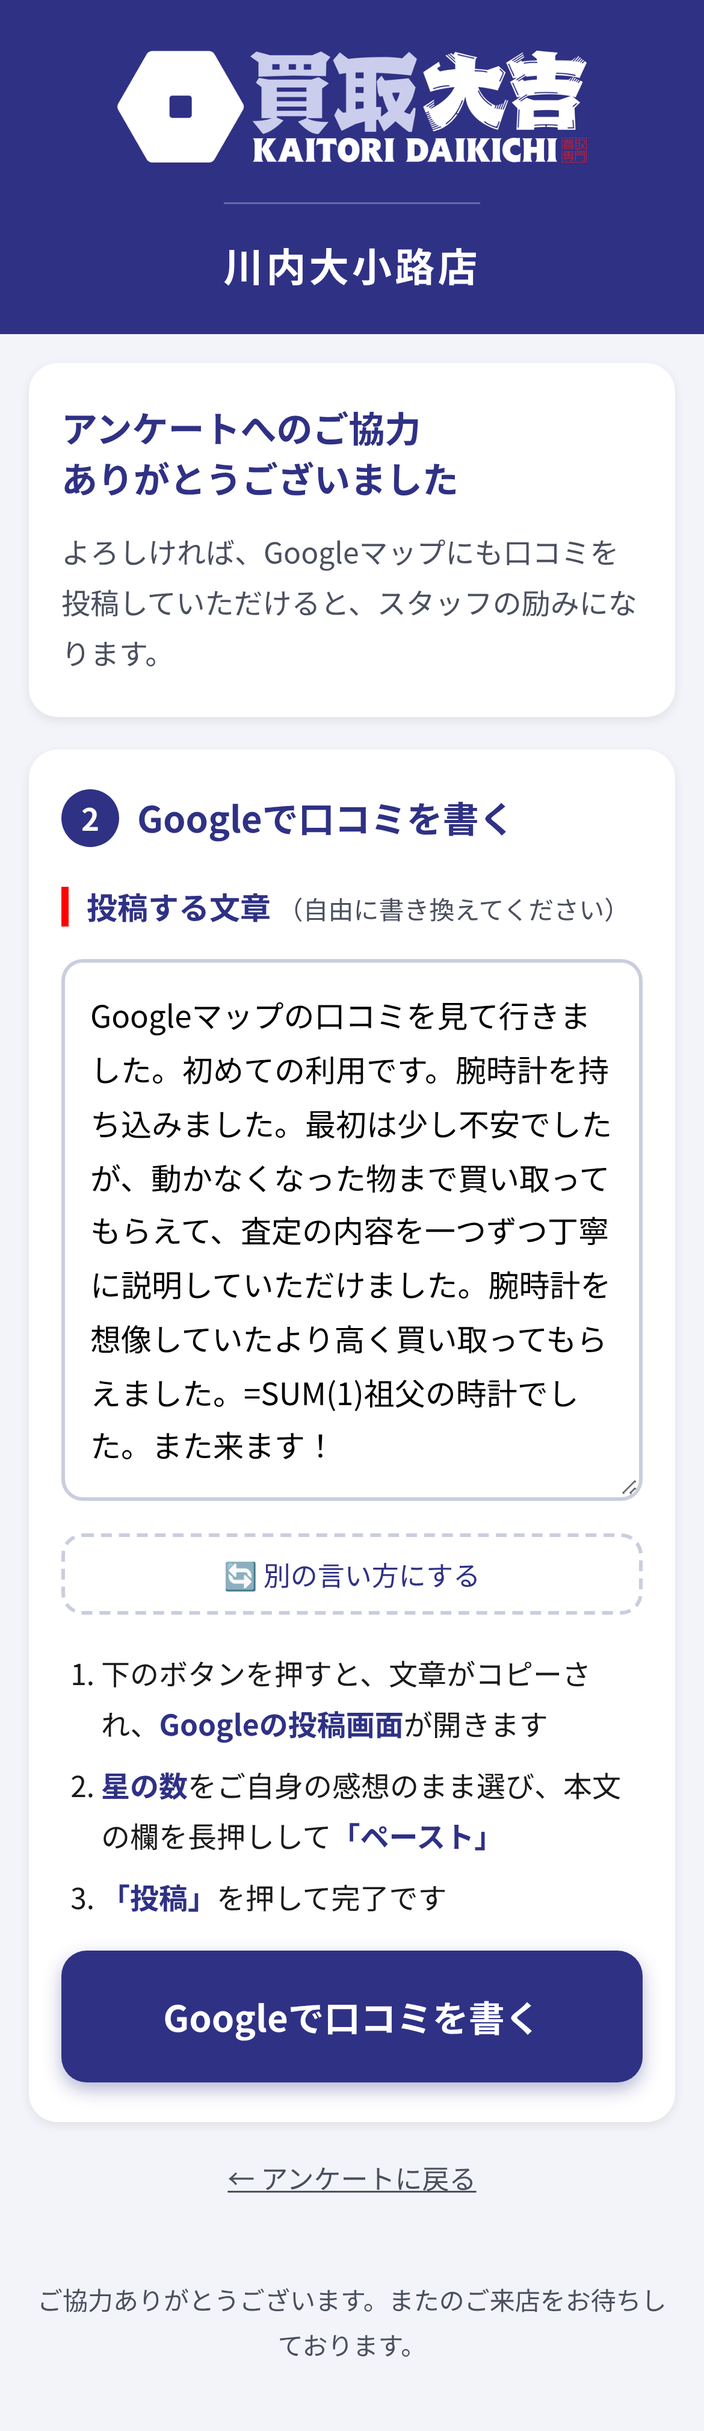
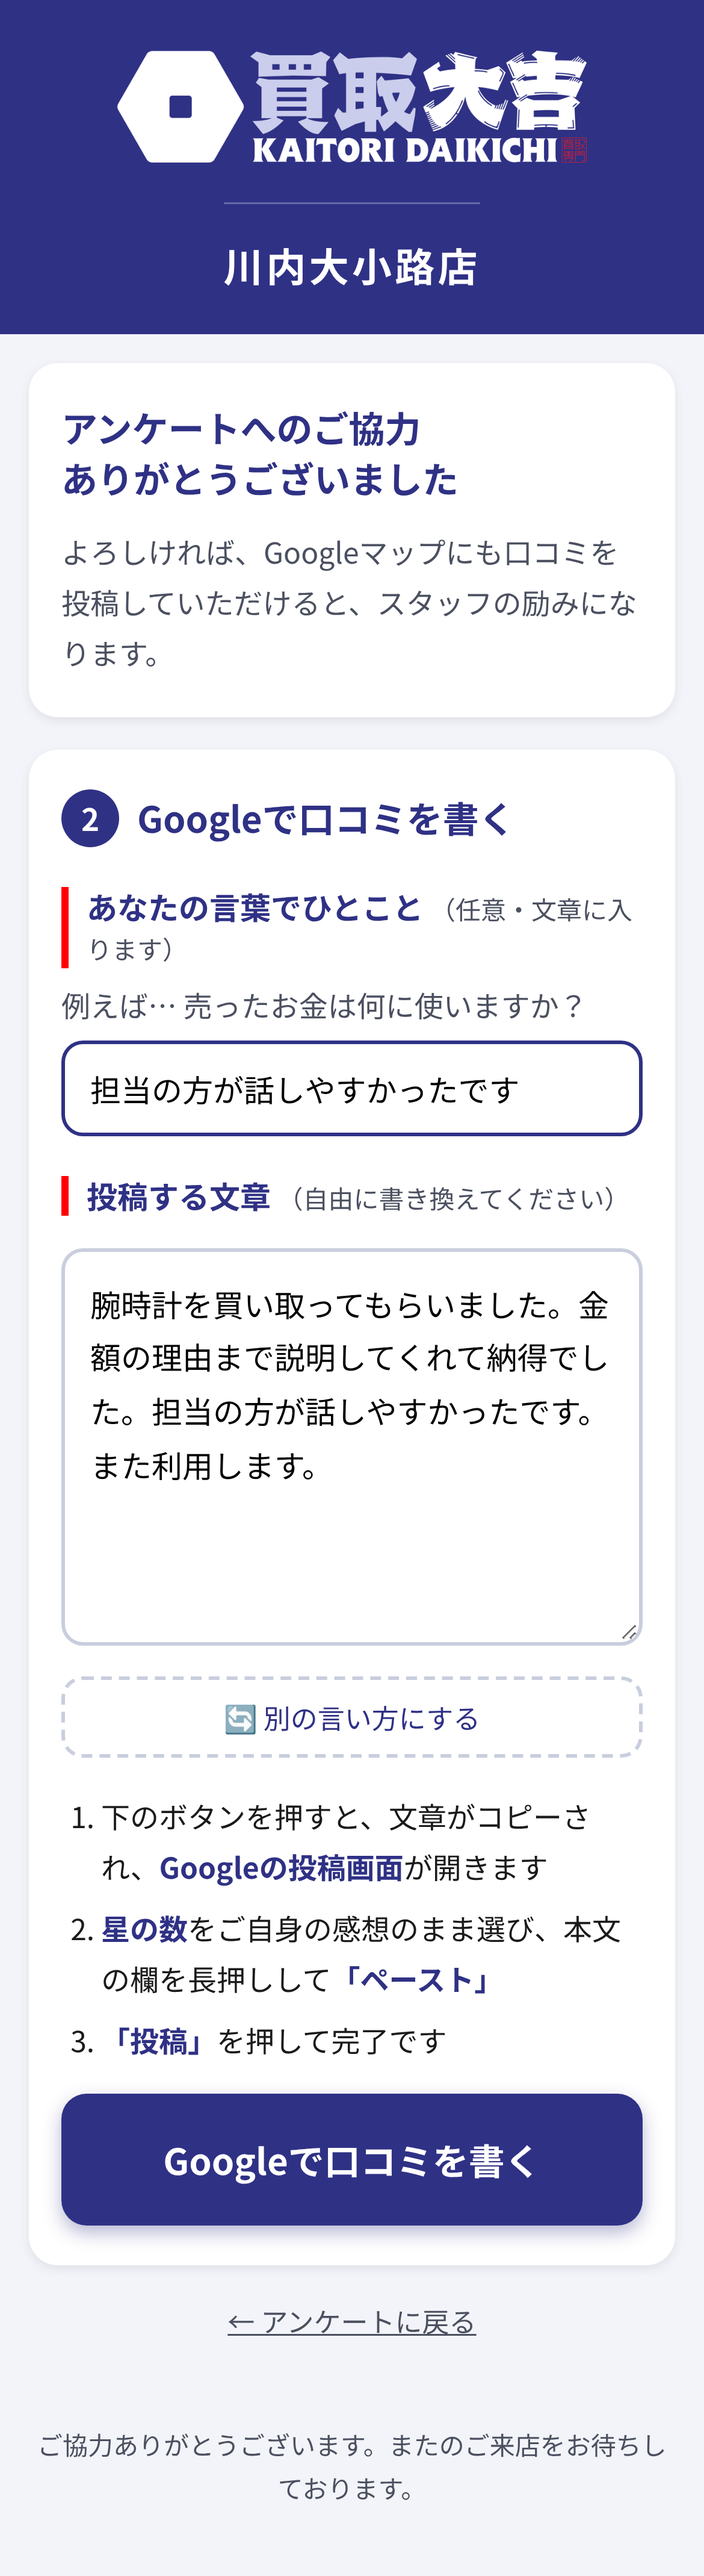
自由記載の一文を口コミ画面にも追加、ボタン押下の記録を強化、ファビコン追加
- 「あなたの言葉でひとこと」をかんたん／くわしく両方のモードで使えるように
- 口コミ画面（画面2）にも同じ欄を置き、画面1と内容を連動
- 送信を sendBeacon に変更し、Googleへ移動する直前でも記録が届きやすく
- シートに「Google口コミボタン（押した／押していない）」「ボタンを押した日時」列を追加
- 見出し行は列が増えても自動で更新
- ファビコン・ホーム画面アイコンに買取大吉ロゴマーク（青ベース）を追加

Claude-Session: https://claude.ai/code/session_019pqPey41PXqapbJbBahgUt

diff --git a/index.html b/index.html
@@ -7,6 +7,11 @@
 <link rel="preconnect" href="https://fonts.gstatic.com" crossorigin>
 <link href="https://fonts.googleapis.com/css2?family=Noto+Sans+JP:wght@400;700&display=swap" rel="stylesheet">
 <title>口コミのお願い｜買取大吉 川内大小路店</title>
+<!-- ファビコン：買取大吉ロゴマーク単体（青ベース）。VIの余白規定（20%以上）をとって配置 -->
+<link rel="icon" href="favicon.ico" sizes="any">
+<link rel="icon" type="image/png" sizes="32x32" href="assets/favicon-32.png">
+<link rel="apple-touch-icon" href="assets/apple-touch-icon.png">
+<meta name="theme-color" content="#2f3185">
 <style>
   /* ===== 色の設定（ここを変えると全体の色が変わります） ===== */
   :root {
@@ -156,11 +161,9 @@
       <div class="label">印象に残ったこと <small>（いくつでも）</small></div>
       <div class="chips grid" data-group="point"></div>
 
-      <div class="detail-only">
-        <div class="label">あなたの言葉でひとこと <small>（任意）</small></div>
-        <p class="muted" style="margin:-4px 0 6px">例えば… <span id="ownQ"></span></p>
-        <input id="own" class="own" type="text" maxlength="200" placeholder="思ったことを、そのまま一言どうぞ">
-      </div>
+      <div class="label">あなたの言葉でひとこと <small>（任意）</small></div>
+      <p class="muted" style="margin:-4px 0 6px">例えば… <span class="ownQ"></span></p>
+      <input class="own" type="text" maxlength="200" placeholder="思ったことを、そのまま一言どうぞ">
 
       <p style="margin:24px 0 0"><button type="button" class="btn" id="toReview">アンケートに答える</button></p>
     </section>
@@ -176,6 +179,10 @@
 
     <section class="card">
       <h2><span class="num">2</span>Googleで口コミを書く</h2>
+      <div class="label">あなたの言葉でひとこと <small>（任意・文章に入ります）</small></div>
+      <p class="muted" style="margin:-4px 0 6px">例えば… <span class="ownQ"></span></p>
+      <input class="own" type="text" maxlength="200" placeholder="思ったことを、そのまま一言どうぞ">
+
       <div class="label">投稿する文章 <small>（自由に書き換えてください）</small></div>
       <textarea id="review" placeholder="ご自由にお書きください。文章なしで星だけの投稿もできます。"></textarea>
       <button type="button" id="reroll" class="reroll">🔄 別の言い方にする</button>
@@ -388,7 +395,8 @@ function reroll() {
   CONFIG.points.forEach(p => {
     V[p.label] = { mid: pick(p.mids), end: pick(p.ends), short: pick(p.shorts), rec: pick(p.recs) };
   });
-  document.getElementById("ownQ").textContent = pick(CONFIG.questions);
+  const q = pick(CONFIG.questions);
+  document.querySelectorAll(".ownQ").forEach(el => el.textContent = q);
 }
 
 // ["A","B","C"] → "A、BとC"
@@ -432,7 +440,7 @@ const endPunct = t => (t && !/[。！!？?♪）)」]$/.test(t)) ? t + "。" : t
 
 // かんたんモード：選んだ項目のうち、最初に押した2つの短い一文だけ（アンケートには全部記録される）
 // 品物を選んでいれば、その言葉（貴金属・時計など）が必ず文章に入る
-function buildShort(sel) {
+function buildShort(sel, own) {
   const labels = sel.point.slice(0, 2);
   const ws = itemWords(sel);
   usedIt = false;
@@ -440,8 +448,8 @@ function buildShort(sel) {
   const body = ordered.map(l => fill(V[l].short, sel)).join("");
   // 品物名が本文に入らなかった時だけ「〇〇を売りました。」を前につける（同じ言葉を2回続けない）
   const opening = (ws.length && !usedIt) ? W.shortItem.replace("{items}", joinItems(ws)) : "";
-  if (!opening && !body) return "";
-  return opening + body + (body ? W.shortClosing : "");
+  if (!opening && !body && !own) return "";
+  return opening + body + endPunct(own) + ((body || own) ? W.shortClosing : "");
 }
 
 // くわしくモード：きっかけ → 体験 →（ご自身の言葉）→（これから来る人へ）→ 締め
@@ -480,13 +488,14 @@ function buildDetail(sel, own) {
 /* ---- 画面の動き ---- */
 document.getElementById("storeName").textContent = CONFIG.storeName;
 const textarea = document.getElementById("review");
-const ownInput = document.getElementById("own");
+const ownInputs = document.querySelectorAll(".own");
+const ownValue = () => ownInputs[0].value.trim();
 const selected = { visit: "", route: [], item: [], point: [] };
 let mode = "short";
 let lastGenerated = "";
 
 function build() {
-  return mode === "short" ? buildShort(selected) : buildDetail(selected, ownInput.value.trim());
+  return mode === "short" ? buildShort(selected, ownValue()) : buildDetail(selected, ownValue());
 }
 
 // quiet=true のときは、お客様が手で直した文章があれば何もしない（確認も出さない）
@@ -507,7 +516,10 @@ function fitHeight() {
   textarea.style.height = Math.max(min, textarea.scrollHeight + 4) + "px";
 }
 textarea.addEventListener("input", fitHeight);
-ownInput.addEventListener("input", () => refresh(true));
+ownInputs.forEach(inp => inp.addEventListener("input", () => {
+  ownInputs.forEach(other => { if (other !== inp) other.value = inp.value; });   // 画面1と画面2で同じ内容に
+  refresh(true);
+}));
 
 function updatePointChips() {
   document.querySelectorAll('.chips[data-group="point"] .chip').forEach(c =>
@@ -560,13 +572,18 @@ history.replaceState({ screen: "survey" }, "");
      mode:"no-cors" ＋ text/plain で送る（返事は読めないが、記録はされる）
    ・送信の成否で画面を止めない（お客様を待たせない） */
 const answerId = Array.from(crypto.getRandomValues(new Uint8Array(8)), b => b.toString(16).padStart(2, "0")).join("");
+// sendBeacon は「ページを離れる直前の記録」のための仕組みで、Googleへ移動しても送信が途切れにくい
 function send(data) {
   if (!CONFIG.sheetUrl) return;
+  const body = JSON.stringify({ id: answerId, ...data });
+  try {
+    const blob = new Blob([body], { type: "text/plain;charset=utf-8" });
+    if (navigator.sendBeacon && navigator.sendBeacon(CONFIG.sheetUrl, blob)) return;
+  } catch (_) { /* 下の fetch で送る */ }
   try {
     fetch(CONFIG.sheetUrl, {
       method: "POST", mode: "no-cors", keepalive: true,
-      headers: { "Content-Type": "text/plain;charset=utf-8" },
-      body: JSON.stringify({ id: answerId, ...data }),
+      headers: { "Content-Type": "text/plain;charset=utf-8" }, body,
     });
   } catch (_) { /* 送れなくても画面は進める */ }
 }
@@ -584,7 +601,7 @@ function show(name, push) {
 window.addEventListener("popstate", e => show((e.state && e.state.screen) || "survey", false));
 
 document.getElementById("toReview").onclick = () => {
-  const answered = selected.visit || selected.route.length || selected.item.length || selected.point.length || ownInput.value.trim();
+  const answered = selected.visit || selected.route.length || selected.item.length || selected.point.length || ownValue();
   if (answered) {
     send({
       type: "survey",
@@ -593,7 +610,7 @@ document.getElementById("toReview").onclick = () => {
       route: selected.route.join("、"),
       items: selected.item.join("、"),
       points: selected.point.join("、"),
-      own: ownInput.value.trim(),
+      own: ownValue(),
       text: textarea.value.trim(),
     });
   }
@@ -606,15 +623,15 @@ document.getElementById("back").onclick = e => { e.preventDefault(); history.bac
 const toast = document.getElementById("toast");
 document.getElementById("goGoogle").onclick = async (e) => {
   e.preventDefault();
-  send({ type: "google", text: textarea.value.trim() });   // 「Googleへ進んだ」を記録
   const text = textarea.value.trim();
+  send({ type: "google", own: ownValue(), text });   // 「Google口コミボタンを押した」を記録
   if (text) {
     try {
       await navigator.clipboard.writeText(text);
       toast.classList.add("show");
-      await new Promise(r => setTimeout(r, 900));
     } catch (_) { /* コピーできなくても投稿画面は開く */ }
   }
+  await new Promise(r => setTimeout(r, 900));   // 送信とコピー表示のための少しの待ち時間
   location.href = CONFIG.reviewUrl;
 };
 </script>
